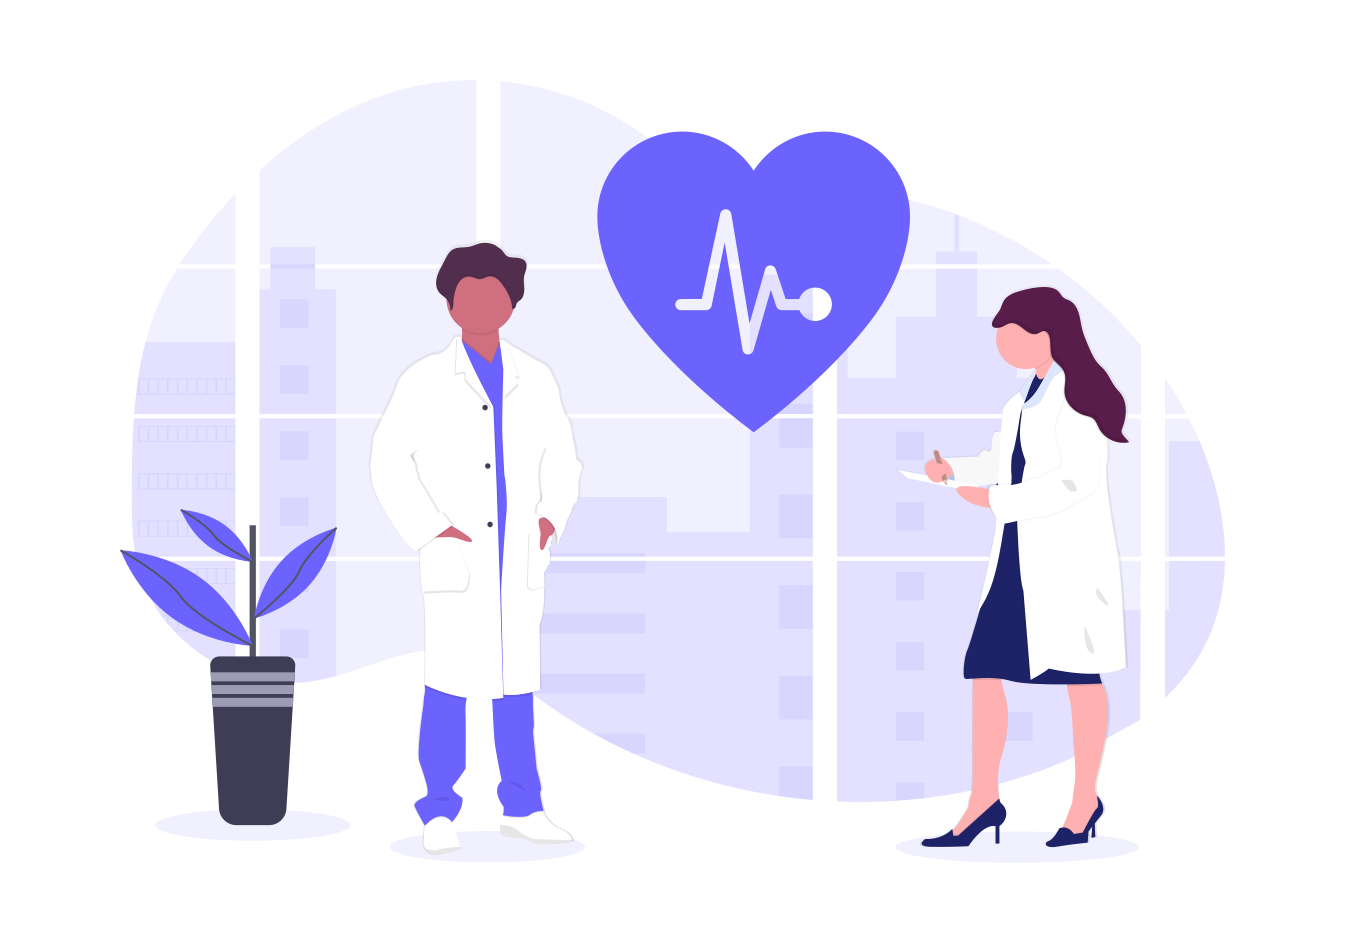
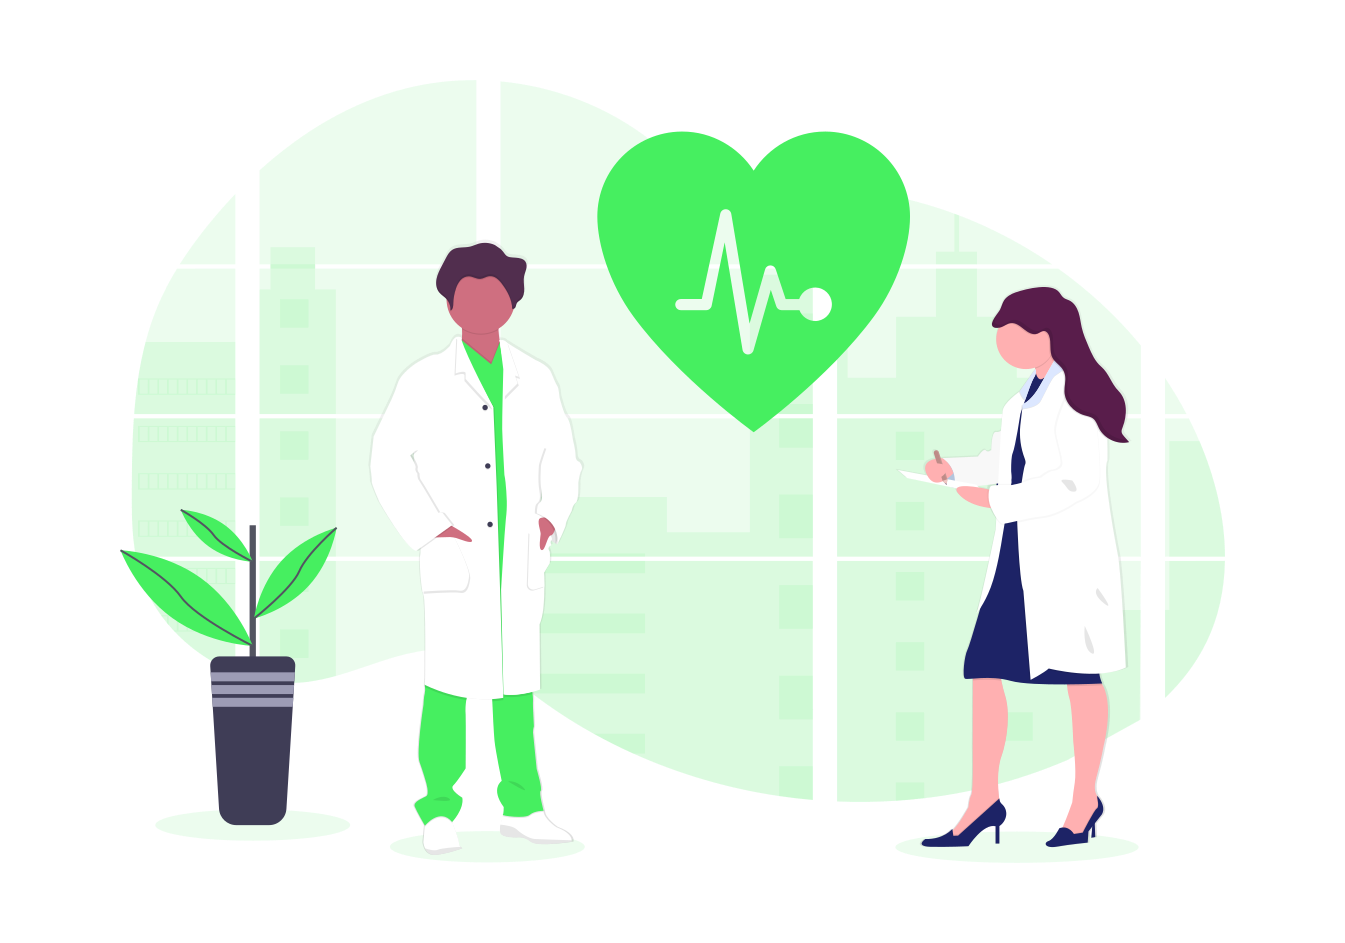
comp

Changed region(s): [[0.3123, 0.123, 0.9368, 0.8918], [0.0937, 0.246, 0.2498, 0.7381], [0.3435, 0.369, 0.3747, 0.5843]]

diff --git a/lib/pages/register_page.dart b/lib/pages/register_page.dart
@@ -24,9 +24,9 @@ class _RegisterPageState extends State<RegisterPage> {
     _confirmpasswardController.dispose();
     super.dispose();
   }
-   Future signUp() async {
 
-   if (passwardconfirmed()) {
+  Future signUp() async {
+    if (passwardconfirmed()) {
       await FirebaseAuth.instance.createUserWithEmailAndPassword(
         email: _emailController.text.trim(),
         password: _passwordController.text.trim(),
@@ -48,46 +48,45 @@ class _RegisterPageState extends State<RegisterPage> {
     return Scaffold(
       backgroundColor: Colors.white,
       body: SingleChildScrollView(
-          child: Column(
-              children: [
-                  //image or Any text fo user guidence.
-                  SizedBox(
+        child: Column(children: [
+          //image or Any text fo user guidence.
+          SizedBox(
             height: MediaQuery.of(context).size.height * 0.025,
-                  ),
-                  ClipRRect(
+          ),
+          ClipRRect(
             borderRadius: BorderRadius.circular(16),
             child: Image.asset(
               "assets/images/health-report.png",
               // fit: BoxFit.cover,
               height: 150,
             ),
-                  ),
-          
-                  SizedBox(
+          ),
+
+          SizedBox(
             height: MediaQuery.of(context).size.height * 0.025,
             // width: MediaQuery.of(context).size.width * 0.5,
-                  ),
-                  const Text(
+          ),
+          const Text(
             "Your Welcome",
             style: TextStyle(
               fontSize: 30,
               fontWeight: FontWeight.w400,
             ),
-                  ),
-                  // text 2
-                  const Text(
+          ),
+          // text 2
+          const Text(
             "Register below with your details!",
             style: TextStyle(
               fontSize: 18,
               // fontWeight: FontWeight.w400,
             ),
-                  ),
-          
-                  //email textfeild
-                  SizedBox(
+          ),
+
+          //email textfeild
+          SizedBox(
             height: MediaQuery.of(context).size.height * 0.02,
-                  ),
-                  Padding(
+          ),
+          Padding(
             padding:
                 const EdgeInsets.only(left: 32, right: 32, top: 4, bottom: 5),
             child: TextFormField(
@@ -100,14 +99,14 @@ class _RegisterPageState extends State<RegisterPage> {
               ),
               autovalidateMode: AutovalidateMode.onUserInteraction,
               validator: (email) =>
-                 email !=null && !EmailValidator.validate(email)
-                 ? "Enter a valid email": null,
-                
+                  email != null && !EmailValidator.validate(email)
+                      ? "Enter a valid email"
+                      : null,
             ),
-                  ),
-          
-                  //passward textfeild
-                  Padding(
+          ),
+
+          //passward textfeild
+          Padding(
             padding: const EdgeInsets.only(left: 32, right: 32, bottom: 5),
             child: TextFormField(
               controller: _passwordController,
@@ -117,14 +116,13 @@ class _RegisterPageState extends State<RegisterPage> {
                 labelText: "passward",
               ),
               autovalidateMode: AutovalidateMode.onUserInteraction,
-               validator: (value) => value != null && value.length < 6
-               ?"Enter min. 6 characters" :null,
-              
-                
+              validator: (value) => value != null && value.length < 6
+                  ? "Enter min. 6 characters"
+                  : null,
             ),
-                  ),
-                  // confirm passward
-                 Padding(
+          ),
+          // confirm passward
+          Padding(
             padding: const EdgeInsets.only(left: 32, right: 32, bottom: 16),
             child: TextFormField(
               controller: _confirmpasswardController,
@@ -133,21 +131,22 @@ class _RegisterPageState extends State<RegisterPage> {
                 hintText: "Confirm Passward",
                 labelText: "Confirm passward",
               ),
-            autovalidateMode: AutovalidateMode.onUserInteraction,
-               validator: (value) => value != null && value.length < 6
-               ?"Enter min. 6 characters" :null,
+              autovalidateMode: AutovalidateMode.onUserInteraction,
+              validator: (value) => value != null && value.length < 6
+                  ? "Enter min. 6 characters"
+                  : null,
             ),
-                  ),
-                  //sign up
-                  SizedBox(
+          ),
+          //sign up
+          SizedBox(
             height: MediaQuery.of(context).size.height * 0.025,
-                  ),
-                  Padding(
+          ),
+          Padding(
             padding: const EdgeInsets.only(left: 32, right: 32),
             child: ElevatedButton.icon(
               style: ElevatedButton.styleFrom(
-                primary: Color.fromARGB(226, 89, 84, 243),
-                minimumSize: Size.fromHeight(45),
+                primary: const Color.fromARGB(255, 25, 221, 48),
+                minimumSize: const Size.fromHeight(45),
               ),
               icon: const Icon(
                 Icons.lock_open,
@@ -164,14 +163,14 @@ class _RegisterPageState extends State<RegisterPage> {
               ),
               onPressed: signUp,
             ),
-                  ),
-          
-                  SizedBox(
+          ),
+
+          SizedBox(
             height: MediaQuery.of(context).size.height * 0.02,
-                  ),
-          
-                  //not a user ? Register
-                  Row(mainAxisAlignment: MainAxisAlignment.center, children: [
+          ),
+
+          //not a user ? Register
+          Row(mainAxisAlignment: MainAxisAlignment.center, children: [
             const Text("You have an account, ", style: TextStyle(fontSize: 18)),
             GestureDetector(
               onTap: widget.showLoginPage,
@@ -181,45 +180,28 @@ class _RegisterPageState extends State<RegisterPage> {
                       fontWeight: FontWeight.bold,
                       fontSize: 18)),
             ),
-                  ]),
-                  // text
-                  SizedBox(
+          ]),
+          // text
+          SizedBox(
             height: MediaQuery.of(context).size.height * 0.01,
-                  ),
-                  const Text("---Or continue with---", style: TextStyle(fontSize: 18)),
-                  SizedBox(
-            height: MediaQuery.of(context).size.height * 0.035,
-                  ),
-                  Padding(
-            padding: const EdgeInsets.symmetric(horizontal: 32),
-            child: Row(
-              children: [
-                FloatingActionButton.extended(
-                  onPressed: () {},
-                  icon: Image.asset("assets/images/google.png",
-                      height: 33, width: 33),
-                  label: const Text("Google"),
-                  backgroundColor: Colors.white,
-                  foregroundColor: Colors.black,
-                ),
-                SizedBox(
-                  //height: MediaQuery.of(context).size.height * 0.01,
-                  width: MediaQuery.of(context).size.width * 0.19,
-                ),
-                FloatingActionButton.extended(
-                  onPressed: () {},
-                  icon: Image.asset("assets/images/facebook.png",
-                      height: 33, width: 33),
-                  label: const Text("Facbook"),
-                  backgroundColor: Colors.white,
-                  foregroundColor: Colors.black,
-                ),
-              ],
-            ),
-                  )
-                ]),
-          
           ),
+          const Text("---Or continue with---", style: TextStyle(fontSize: 18)),
+          SizedBox(
+            height: MediaQuery.of(context).size.height * 0.035,
+          ),
+          Padding(
+            padding: const EdgeInsets.only(left: 32, right: 32),
+            child: FloatingActionButton.extended(
+              onPressed: () {},
+              icon: Image.asset("assets/images/google.png",
+                  height: 33, width: 33),
+              label: const Text("Sign in with Google"),
+              backgroundColor: Colors.white,
+              foregroundColor: Colors.black,
+            ),
+          )
+        ]),
+      ),
     );
   }
 }

diff --git a/lib/pages/loginpage.dart b/lib/pages/loginpage.dart
@@ -111,7 +111,7 @@ class _LoginpageState extends State<Loginpage> {
                     return ForgotPasswordPage();
                   }));
                 },
-                child: Text("Forget passward",
+                child: const Text("Forget passward",
                     style: TextStyle(
                         color: Colors.blue,
                         fontWeight: FontWeight.bold,
@@ -130,8 +130,8 @@ class _LoginpageState extends State<Loginpage> {
           padding: const EdgeInsets.only(left: 32, right: 32),
           child: ElevatedButton.icon(
             style: ElevatedButton.styleFrom(
-              primary: Color.fromARGB(226, 89, 84, 243),
-              minimumSize: Size.fromHeight(45),
+              primary: const Color.fromARGB(255, 25, 221, 48),
+              minimumSize: const Size.fromHeight(45),
             ),
             icon: const Icon(
               Icons.lock_open,
@@ -175,30 +175,14 @@ class _LoginpageState extends State<Loginpage> {
           height: MediaQuery.of(context).size.height * 0.035,
         ),
         Padding(
-          padding: const EdgeInsets.symmetric(horizontal: 32),
-          child: Row(
-            children: [
-              FloatingActionButton.extended(
-                onPressed: () {},
-                icon: Image.asset("assets/images/google.png",
-                    height: 33, width: 33),
-                label: const Text("Google"),
-                backgroundColor: Colors.white,
-                foregroundColor: Colors.black,
-              ),
-              SizedBox(
-                //height: MediaQuery.of(context).size.height * 0.01,
-                width: MediaQuery.of(context).size.width * 0.19,
-              ),
-              FloatingActionButton.extended(
-                onPressed: () {},
-                icon: Image.asset("assets/images/facebook.png",
-                    height: 33, width: 33),
-                label: const Text("Facbook"),
-                backgroundColor: Colors.white,
-                foregroundColor: Colors.black,
-              ),
-            ],
+          padding: const EdgeInsets.only(left: 32,right:32),
+          child: FloatingActionButton.extended(
+            onPressed: () {},
+            icon:
+                Image.asset("assets/images/google.png", height: 33, width: 33),
+            label: const Text("Sign in with Google"),
+            backgroundColor: Colors.white,
+            foregroundColor: Colors.black,
           ),
         )
       ])),

diff --git a/lib/pages/forgetpw_page.dart b/lib/pages/forgetpw_page.dart
@@ -47,7 +47,7 @@ class _ForgotPasswordPageState extends State<ForgotPasswordPage> {
   Widget build(BuildContext context) {
     return Scaffold(
       appBar: AppBar(
-        backgroundColor:Color.fromARGB(226, 89, 84, 243),
+        backgroundColor:const Color.fromARGB(255, 25, 221, 48),
         elevation: 0,
       ),
       body : Column(
@@ -78,7 +78,7 @@ class _ForgotPasswordPageState extends State<ForgotPasswordPage> {
         ),
          MaterialButton(
             onPressed: passwordReset,
-            color: const Color.fromARGB(226, 89, 84, 243),
+            color: const Color.fromARGB(255, 25, 221, 48),
             child: const Text("Reset Passward"),
           )
         ],

diff --git a/lib/pages/home.dart b/lib/pages/home.dart
@@ -21,7 +21,7 @@ class _HomeState extends State<Home> {
             onPressed: () {
               FirebaseAuth.instance.signOut();
             },
-            color: const Color.fromARGB(226, 89, 84, 243),
+            color: const Color.fromARGB(255, 25, 221, 48),
             child: const Text("Sign out"),
           )
         ]),

diff --git a/lib/main.dart b/lib/main.dart
@@ -17,7 +17,7 @@ class MyApp extends StatelessWidget {
     return MaterialApp(
       themeMode: ThemeMode.light,
       theme: ThemeData(
-        primarySwatch: Colors.grey,
+        primarySwatch:Colors.blueGrey,
         fontFamily: GoogleFonts.lato().fontFamily,
         //primaryTextTheme: GoogleFonts.latoTextTheme()
       ),
